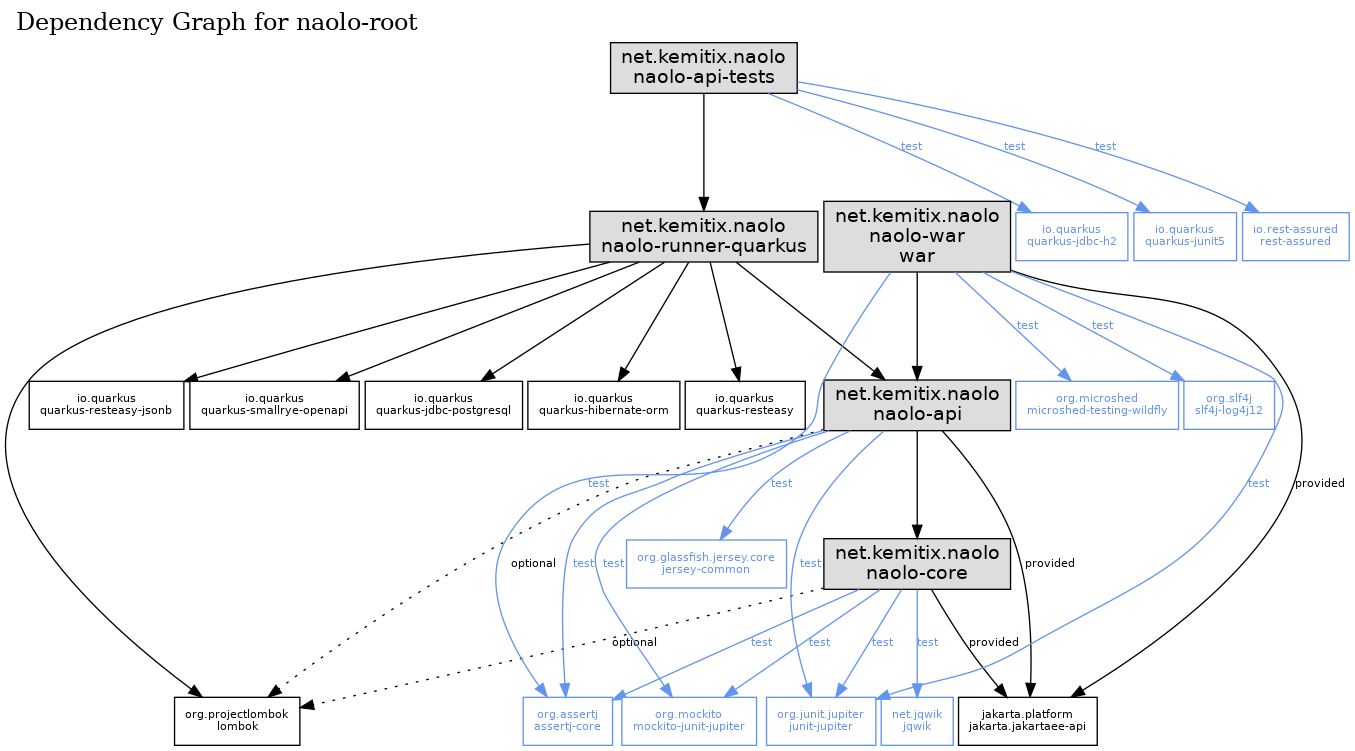
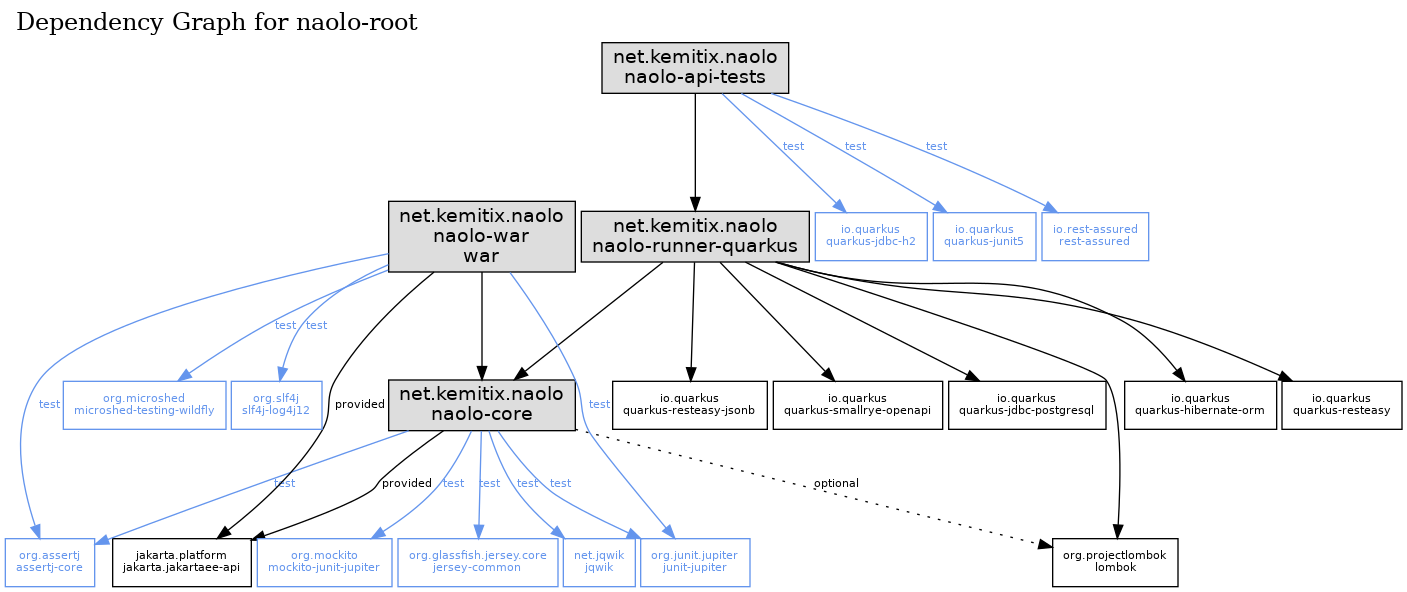
Merge api into core

diff --git a/war/src/test/java/net/kemitix/naolo/war/VisitsIT.java b/war/src/test/java/net/kemitix/naolo/war/VisitsIT.java
@@ -1,9 +1,9 @@
 package net.kemitix.naolo.war;
 
-import net.kemitix.naolo.api.OwnerResource;
-import net.kemitix.naolo.api.PetResource;
-import net.kemitix.naolo.api.VetResource;
-import net.kemitix.naolo.api.VisitResource;
+import net.kemitix.naolo.OwnerResource;
+import net.kemitix.naolo.PetResource;
+import net.kemitix.naolo.VetResource;
+import net.kemitix.naolo.VisitResource;
 import net.kemitix.naolo.entities.Owner;
 import net.kemitix.naolo.entities.Pet;
 import net.kemitix.naolo.entities.Veterinarian;

diff --git a/war/src/test/java/net/kemitix/naolo/war/PetsIT.java b/war/src/test/java/net/kemitix/naolo/war/PetsIT.java
@@ -1,7 +1,7 @@
 package net.kemitix.naolo.war;
 
-import net.kemitix.naolo.api.OwnerResource;
-import net.kemitix.naolo.api.PetResource;
+import net.kemitix.naolo.OwnerResource;
+import net.kemitix.naolo.PetResource;
 import net.kemitix.naolo.entities.Owner;
 import net.kemitix.naolo.entities.Pet;
 import org.assertj.core.api.WithAssertions;

diff --git a/war/src/test/java/net/kemitix/naolo/war/VetsIT.java b/war/src/test/java/net/kemitix/naolo/war/VetsIT.java
@@ -1,6 +1,6 @@
 package net.kemitix.naolo.war;
 
-import net.kemitix.naolo.api.VetResource;
+import net.kemitix.naolo.VetResource;
 import net.kemitix.naolo.entities.Veterinarian;
 import org.assertj.core.api.WithAssertions;
 import org.junit.jupiter.api.DisplayName;

diff --git a/war/src/test/java/net/kemitix/naolo/war/OwnersIT.java b/war/src/test/java/net/kemitix/naolo/war/OwnersIT.java
@@ -1,6 +1,6 @@
 package net.kemitix.naolo.war;
 
-import net.kemitix.naolo.api.OwnerResource;
+import net.kemitix.naolo.OwnerResource;
 import net.kemitix.naolo.entities.Owner;
 import org.assertj.core.api.WithAssertions;
 import org.junit.jupiter.api.DisplayName;

diff --git a/core/src/main/java/net/kemitix/naolo/VetResource.java b/core/src/main/java/net/kemitix/naolo/VetResource.java
@@ -19,7 +19,7 @@
  * OUT OF OR IN CONNECTION WITH THE SOFTWARE OR THE USE OR OTHER DEALINGS IN THE SOFTWARE.
  */
 
-package net.kemitix.naolo.api;
+package net.kemitix.naolo;
 
 import lombok.extern.java.Log;
 import net.kemitix.naolo.entities.Veterinarian;

diff --git a/core/src/test/java/net/kemitix/naolo/VetResourceTest.java b/core/src/test/java/net/kemitix/naolo/VetResourceTest.java
@@ -1,4 +1,4 @@
-package net.kemitix.naolo.api;
+package net.kemitix.naolo;
 
 import net.kemitix.naolo.core.vets.*;
 import net.kemitix.naolo.entities.VetSpecialisation;

diff --git a/core/src/test/java/net/kemitix/naolo/OwnerResourceTest.java b/core/src/test/java/net/kemitix/naolo/OwnerResourceTest.java
@@ -1,4 +1,4 @@
-package net.kemitix.naolo.api;
+package net.kemitix.naolo;
 
 import net.kemitix.naolo.core.owners.*;
 import net.kemitix.naolo.entities.Owner;

diff --git a/core/src/test/java/net/kemitix/naolo/VisitResourceTest.java b/core/src/test/java/net/kemitix/naolo/VisitResourceTest.java
@@ -1,4 +1,4 @@
-package net.kemitix.naolo.api;
+package net.kemitix.naolo;
 
 import net.kemitix.naolo.core.visits.*;
 import net.kemitix.naolo.entities.Visit;

diff --git a/core/src/test/java/net/kemitix/naolo/EntityResourceTest.java b/core/src/test/java/net/kemitix/naolo/EntityResourceTest.java
@@ -1,4 +1,4 @@
-package net.kemitix.naolo.api;
+package net.kemitix.naolo;
 
 import net.kemitix.naolo.storage.*;
 import org.assertj.core.api.WithAssertions;

diff --git a/core/src/test/java/net/kemitix/naolo/PetResourceTest.java b/core/src/test/java/net/kemitix/naolo/PetResourceTest.java
@@ -1,4 +1,4 @@
-package net.kemitix.naolo.api;
+package net.kemitix.naolo;
 
 import net.kemitix.naolo.core.pets.*;
 import net.kemitix.naolo.entities.Pet;

diff --git a/core/src/main/java/net/kemitix/naolo/OwnerResource.java b/core/src/main/java/net/kemitix/naolo/OwnerResource.java
@@ -1,4 +1,4 @@
-package net.kemitix.naolo.api;
+package net.kemitix.naolo;
 
 import lombok.extern.java.Log;
 import net.kemitix.naolo.entities.Owner;

diff --git a/core/src/main/java/net/kemitix/naolo/PetResource.java b/core/src/main/java/net/kemitix/naolo/PetResource.java
@@ -1,4 +1,4 @@
-package net.kemitix.naolo.api;
+package net.kemitix.naolo;
 
 import lombok.extern.java.Log;
 import net.kemitix.naolo.entities.Pet;
